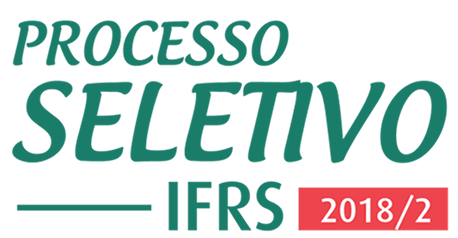
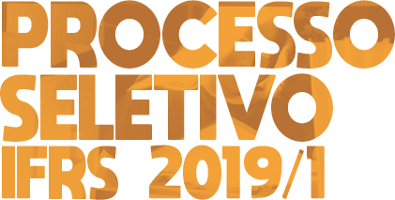
Estilização do cabeçalho

diff --git a/sass/_header-banner.scss b/sass/_header-banner.scss
@@ -2,7 +2,7 @@
     background: url('../img/bg-header.png') no-repeat center center;
     background-size: cover;
     border-bottom: 10px solid $cor-menu-bg;
-    max-height: 370px;
+    max-height: 360px;
 
     img {
         display: inline-block;
@@ -10,6 +10,8 @@
     }
 
     .header-foto {
+        margin-right: 30px;
+
         @include media-breakpoint-down(md) {
             display: none;
         }
@@ -23,7 +25,7 @@
     }
 
     .header-selo {
-        vertical-align: top;
+        margin-left: 60px;
 
         @include media-breakpoint-down(lg) {
             display: none;

diff --git a/header.php b/header.php
@@ -29,7 +29,7 @@
             <div class="container">
                 <div class="row">
                     <div class="col-12">
-                        <a href="<?php echo esc_url( home_url( '/' ) ); ?>" title="<?php echo esc_attr( get_bloginfo( 'name' ) ); ?>"><img src="<?php echo get_stylesheet_directory_uri(); ?>/img/header-foto.png" alt="<?php echo esc_attr( get_bloginfo( 'name' ) ); ?>" class="m-auto img-fluid header-foto"/></a><a href="<?php echo esc_url( home_url( '/' ) ); ?>" title="<?php echo esc_attr( get_bloginfo( 'name' ) ); ?>"><img src="<?php header_image(); ?>" alt="<?php echo esc_attr( get_bloginfo( 'name' ) ); ?>" class="m-auto img-fluid header-ps"/></a><a href="<?php echo esc_url( home_url( '/' ) ); ?>" title="<?php echo esc_attr( get_bloginfo( 'name' ) ); ?>"><img src="<?php echo get_stylesheet_directory_uri(); ?>/img/header-selo.png" alt="<?php echo esc_attr( get_bloginfo( 'name' ) ); ?>" class="m-auto img-fluid header-selo"/></a>
+                        <a href="<?php echo esc_url( home_url( '/' ) ); ?>" title="<?php echo esc_attr( get_bloginfo( 'name' ) ); ?>"><img src="<?php echo get_stylesheet_directory_uri(); ?>/img/header-foto<?php echo mt_rand(1, 3); ?>.png" alt="<?php echo esc_attr( get_bloginfo( 'name' ) ); ?>" class="img-fluid header-foto"/></a><a href="<?php echo esc_url( home_url( '/' ) ); ?>" title="<?php echo esc_attr( get_bloginfo( 'name' ) ); ?>"><img src="<?php header_image(); ?>" alt="<?php echo esc_attr( get_bloginfo( 'name' ) ); ?>" class="img-fluid header-ps"/></a><a href="<?php echo esc_url( home_url( '/' ) ); ?>" title="<?php echo esc_attr( get_bloginfo( 'name' ) ); ?>"><img src="<?php echo get_stylesheet_directory_uri(); ?>/img/header-selo.png" alt="<?php echo esc_attr( get_bloginfo( 'name' ) ); ?>" class="img-fluid header-selo"/></a>
                     </div>
                 </div>
             </div>
